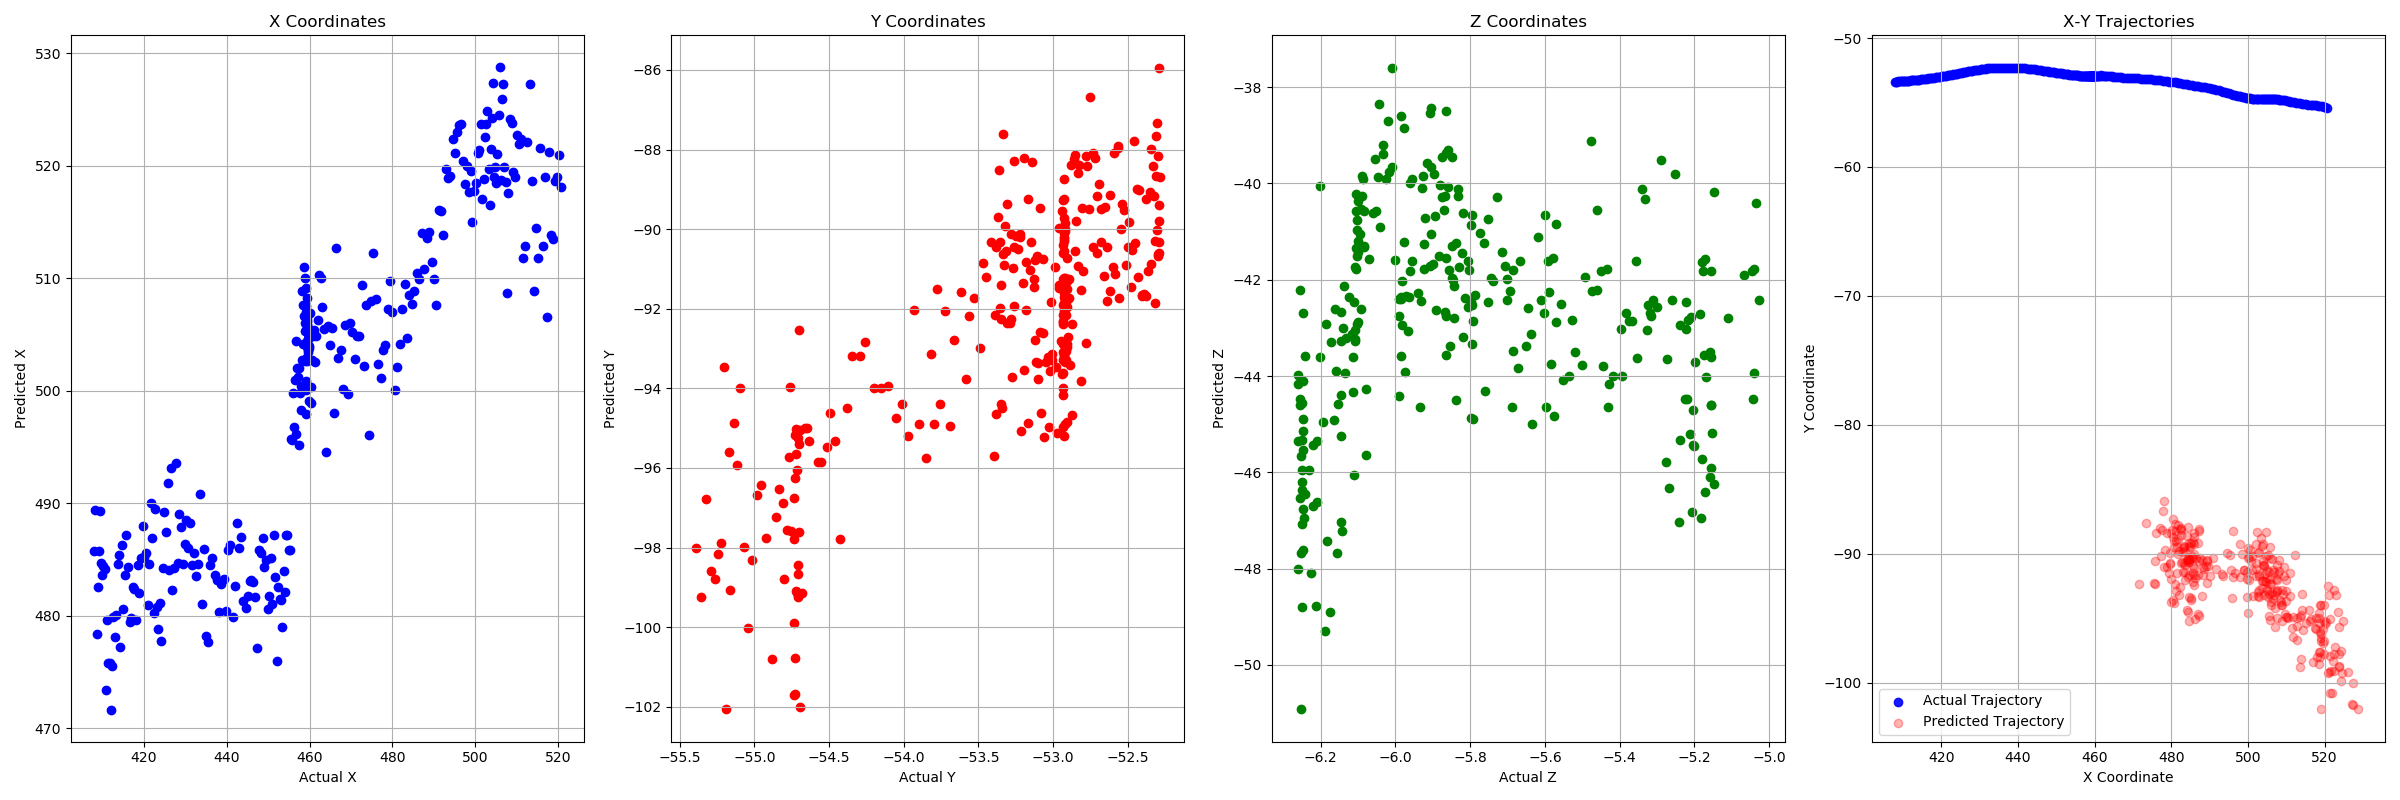
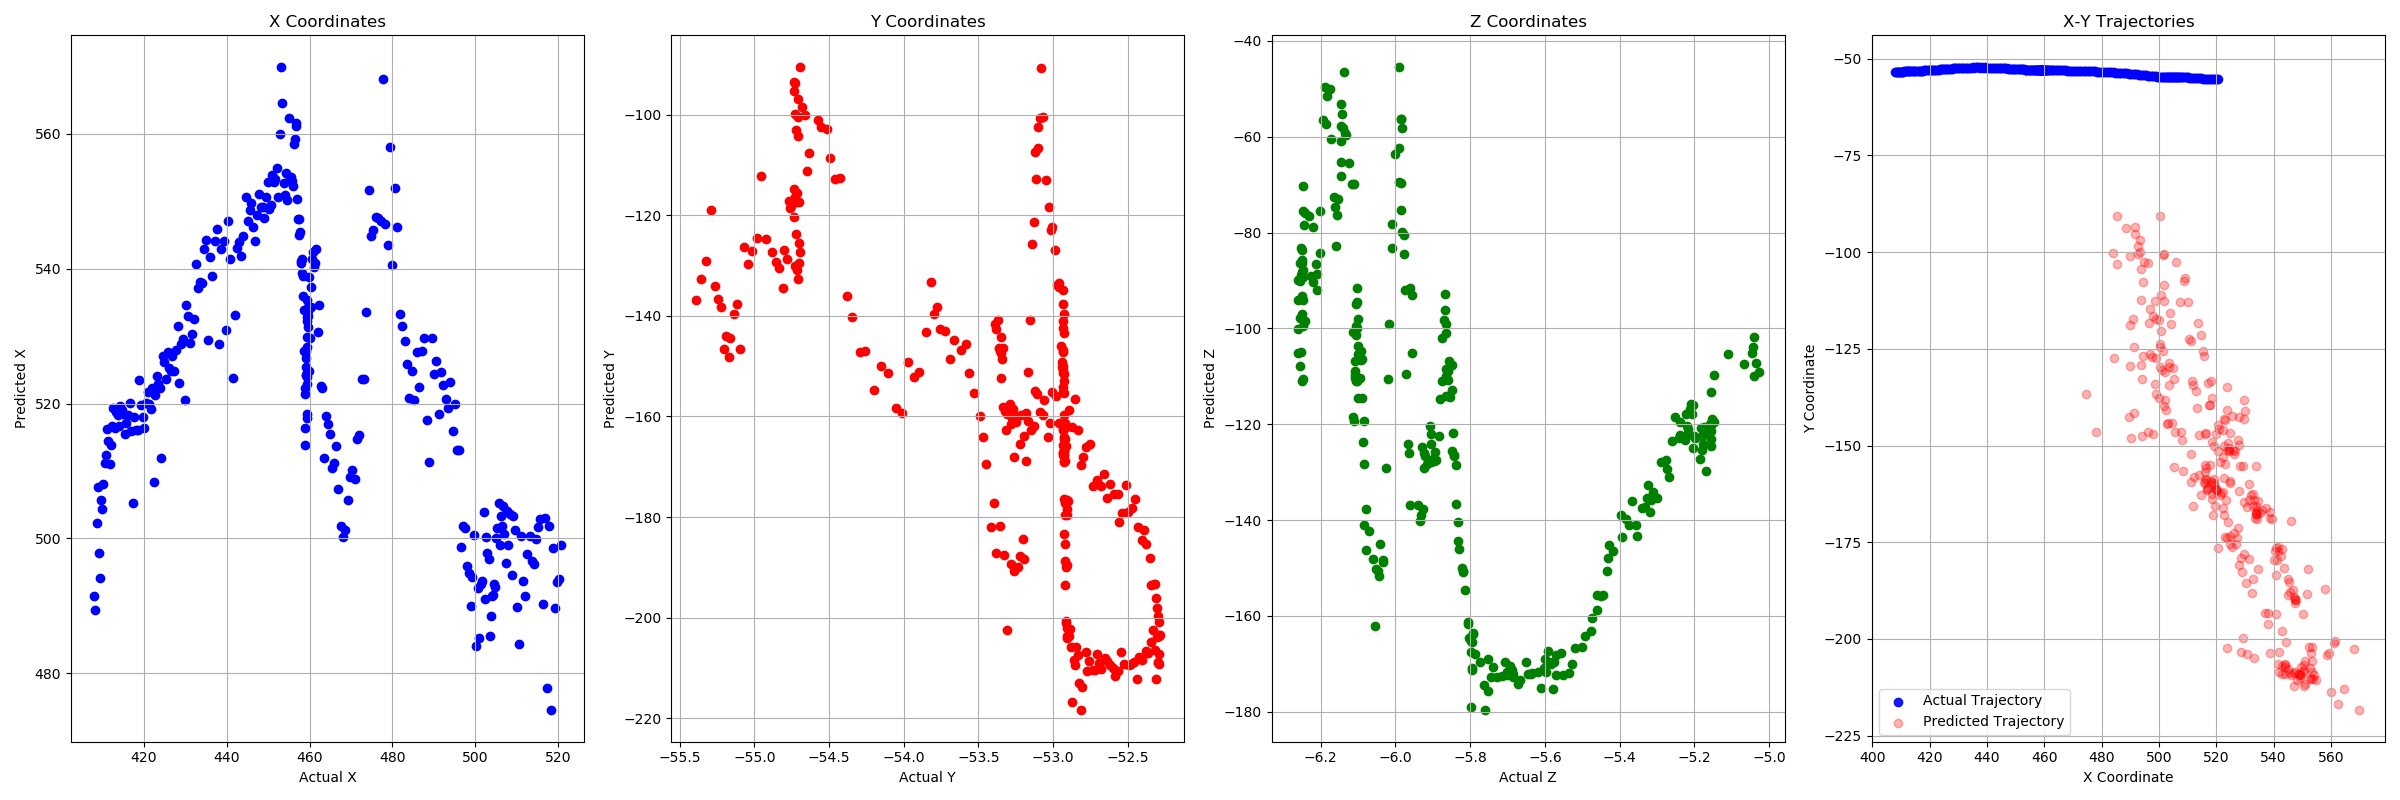
nothing new

diff --git a/lidar_point_CNN_SVM_training.py b/lidar_point_CNN_SVM_training.py
@@ -156,7 +156,7 @@ def create_pointnet_model(input_shape):
         Conv1D(32, 3, activation='relu', padding='same', kernel_initializer='he_normal', input_shape=input_shape),
         BatchNormalization(),
         Dropout(0.25),
-        Conv1D(2, 3, activation='relu', padding='same', kernel_initializer='he_normal', input_shape=input_shape),
+        Conv1D(16, 3, activation='relu', padding='same', kernel_initializer='he_normal', input_shape=input_shape),
         Flatten(),  # Flatten the output to make it a 1D vector
         Dense(7)  # Final layer with 7 units, one for each target variable
     ])
@@ -197,9 +197,9 @@ def train_and_predict(bag_file):
     input_shape = (X_train.shape[1], 1)  # Assuming data is 1D
     model = create_pointnet_model(input_shape)
     optimizer = Adam(learning_rate=0.015)
-    reduce_lr = ReduceLROnPlateau(monitor='val_loss', factor=0.5, patience=2, min_lr=0.001)
+    reduce_lr = ReduceLROnPlateau(monitor='val_loss', factor=0.25, patience=8, min_lr=0.001)
     model.compile(optimizer=optimizer, loss='mean_squared_error')
-    model.fit(X_train, y_train, epochs=24, batch_size=8, validation_split=0.15, callbacks=[reduce_lr], verbose = 1)
+    model.fit(X_train, y_train, epochs=100, batch_size=16, validation_split=0.15, callbacks=[reduce_lr], verbose = 1)
 
     model.save('model_12-07-24.h5')  # Save the model as an HDF5 file
 

diff --git a/test_model.py b/test_model.py
@@ -86,7 +86,7 @@ def calculate_mean_percentage_error(actual, predicted):
 
 
 # Load the pre-trained models
-slfn_model = load_model('cnn.h5')
+slfn_model = load_model('model_12-07-24.h5')
 #svm_model = joblib.load('model_09-07-24.joblib')  # Make sure you've saved the SVM model using joblib
 
 # Load test data
@@ -164,8 +164,9 @@ def plot_and_save(x_actual, y_actual, z_actual, x_pred, y_pred, z_pred, output_d
 # Example usage of the plot and save function
 plot_and_save(x_actual, y_actual, z_actual, x_pred, y_pred, z_pred, current_folder)
 
-#launch_plotjuggler('Issue_ID_4_2024_06_13_07_47_15.bag')
+launch_plotjuggler('Issue_ID_4_2024_06_13_07_47_15.bag')
 
 # Calculate mean percentage errors for each element
 mean_percentage_errors = calculate_mean_percentage_error(actual_points, predicted_points)
 print("Mean Percentage Errors for each element:", mean_percentage_errors)
+
